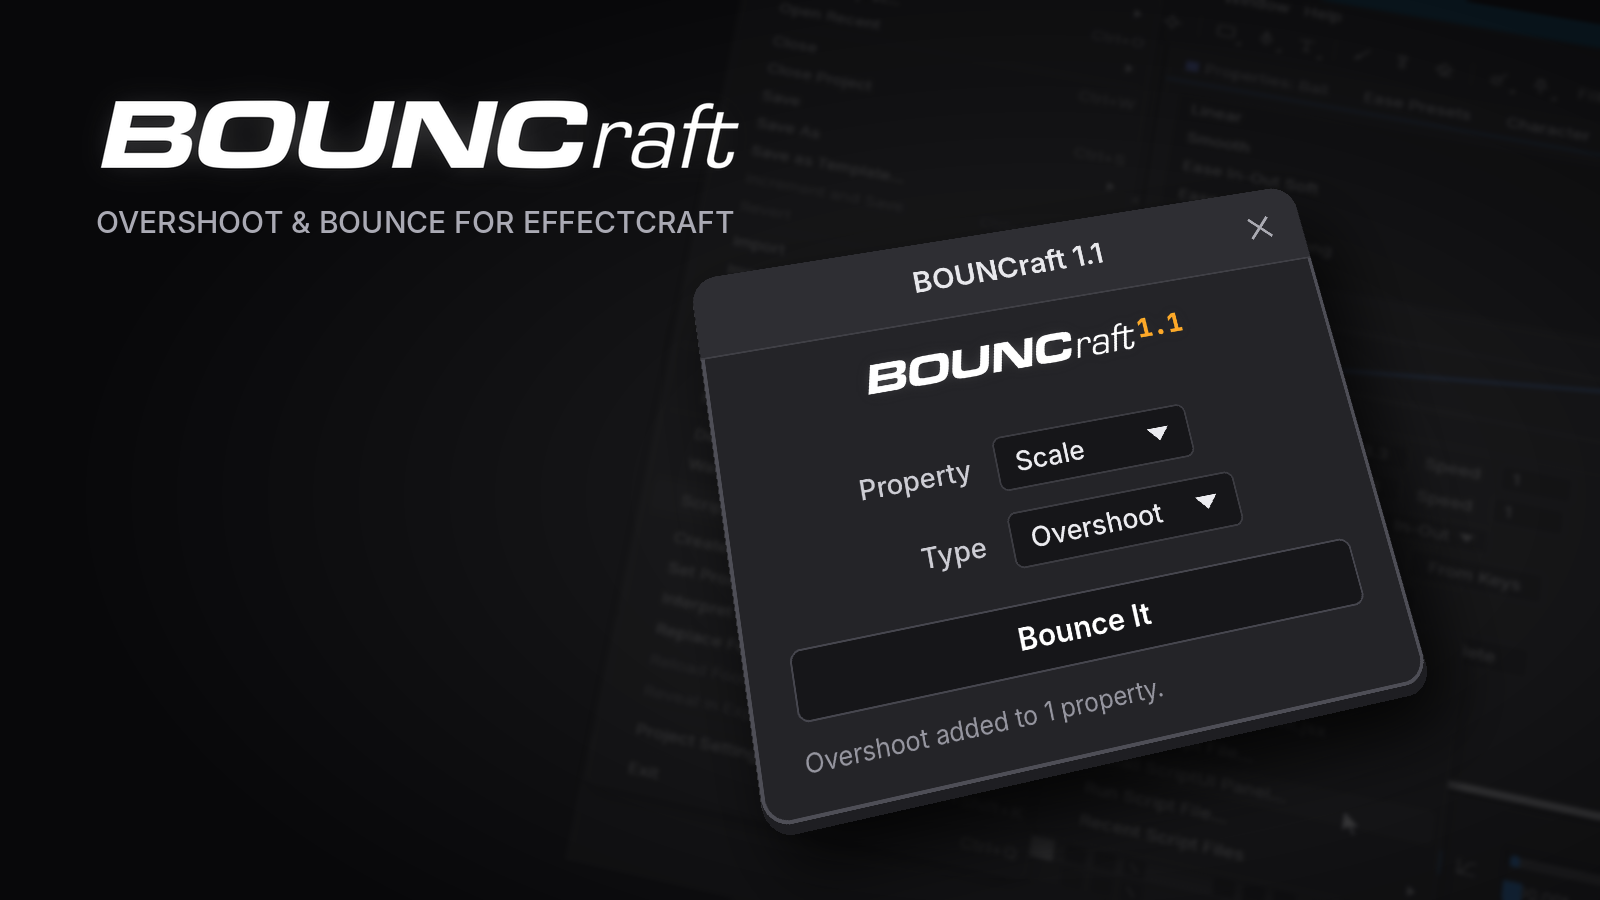
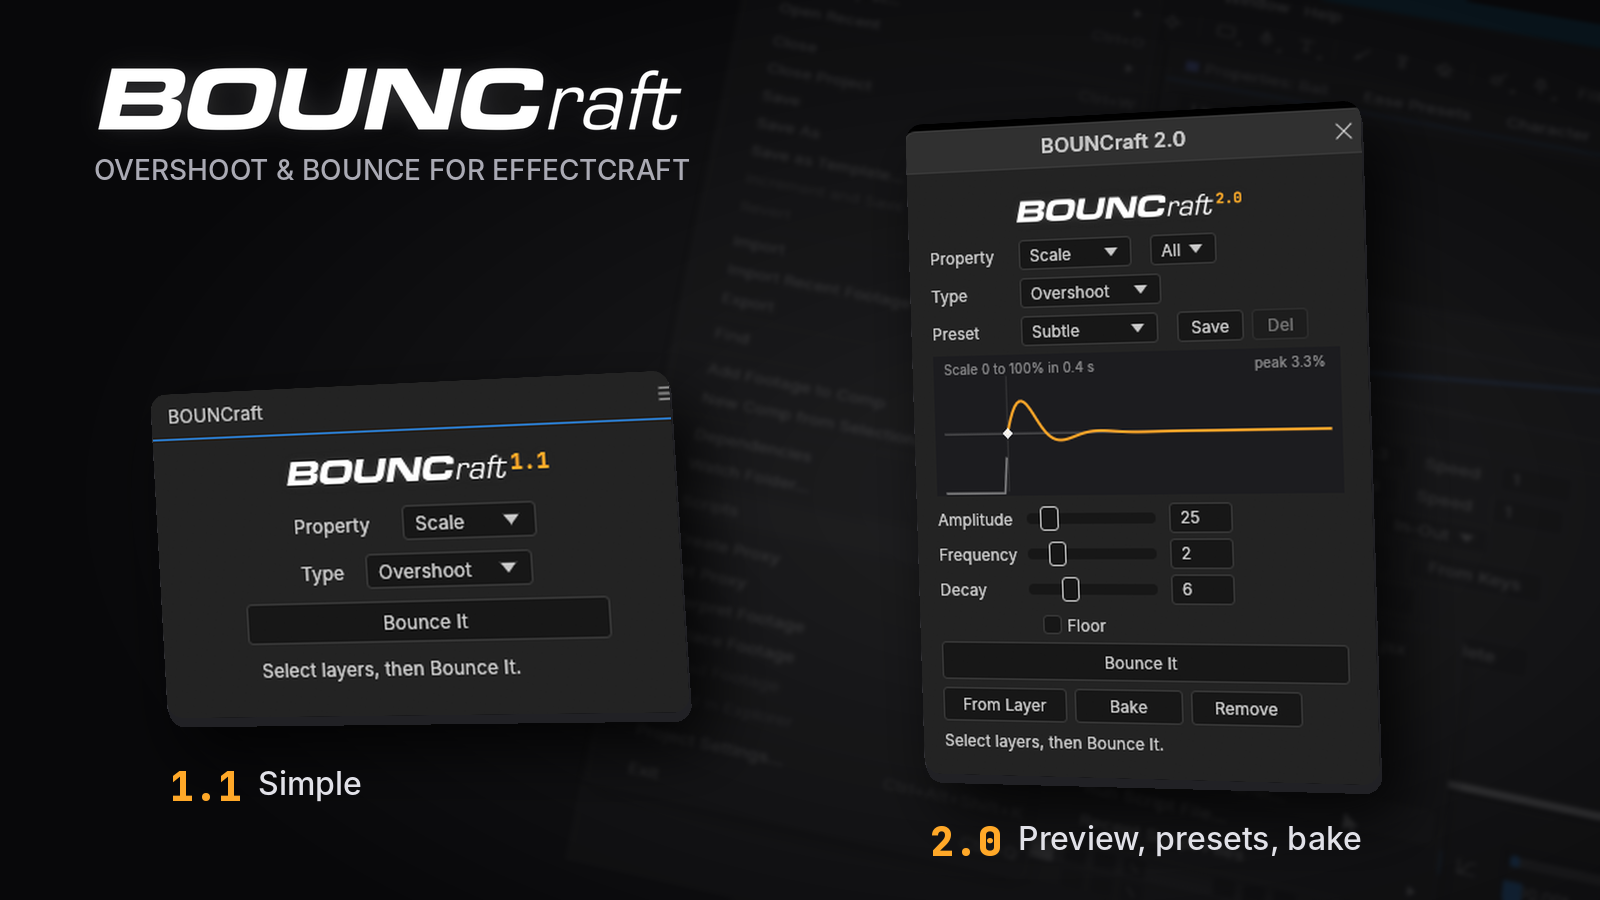
README: separate BOUNCraft 1.1 and 2 sections, hero with both panels
Claude-Session: https://claude.ai/code/session_01J9a4gAAxFGQVCisUeyi2xy

diff --git a/README.md b/README.md
@@ -1,4 +1,4 @@
-<p align="center"><img src="images/v2/hero.png" alt="BOUNCraft 2.0 — overshoot and bounce for EffectCraft"></p>
+<p align="center"><img src="images/hero.png" alt="BOUNCraft 1.1 and 2.0 — overshoot and bounce for EffectCraft"></p>
 
 # BOUNCraft
 
@@ -9,6 +9,20 @@ selected, including the Transform effect's), choose **Overshoot** or **Bounce Ba
 **Bounce It**. BOUNCraft adds the expression and the controls to tweak it.
 
 *[Português abaixo](#português)*
+
+## Which version?
+
+Two versions, both available: pick the one you like.
+
+| | [BOUNCraft 1.1](#bouncraft-11) | [BOUNCraft 2](#bouncraft-2) |
+|---|---|---|
+| For | quick and simple | more control |
+| Panel | Property, Type, **Bounce It** | the same, plus axis, presets, values, curve preview, **Bake**, **Remove**, **From Layer** |
+| Controls on the layer | one Slider / Checkbox Control per value | the same, or one effect with the optional plug-in |
+| Download | [1.1 release](../../releases/tag/v1.1): `BOUNCraft.jsx` | [2.0 release](../../releases/tag/v2.0): `BOUNCraft.jsx`, or `BOUNCraft-2.0-Plugin.zip` with the plug-in |
+
+Both install as **Window ▸ BOUNCraft.jsx**, so installing one replaces the other. Layers you already
+bounced keep working whichever one is installed (layers made with the plug-in need the plug-in).
 
 ## BOUNCraft 2
 
@@ -41,9 +55,9 @@ What's new in 2.0:
 
 Layers made with 1.x keep working, and Bake and Remove work on them too.
 
-## Install
+### Install
 
-Download from the [latest release](../../releases/latest). There are two versions; pick one:
+Download from the [2.0 release](../../releases/tag/v2.0). It comes in two forms; pick one:
 
 | | Script | Script + plug-in |
 |---|---|---|
@@ -51,10 +65,7 @@ Download from the [latest release](../../releases/latest). There are two version
 | Controls on the layer | one Slider / Checkbox Control per value | one effect, **BOUNCraft Overshoot** or **BOUNCraft Bounce Back**, with every value inside |
 | Opening your project on another computer | works in any EffectCraft | that computer needs the plug-in too |
 
-Prefer something simpler? [BOUNCraft 1.1](../../releases/tag/v1.1) is still there: the same
-Overshoot and Bounce Back, without the preview, presets, axis, Bake and Remove.
-
-### Script
+#### Script
 
 1. In EffectCraft: **File ▸ Scripts ▸ Install ScriptUI Panel…** and pick `BOUNCraft.jsx` (it
    replaces an older BOUNCraft).
@@ -70,7 +81,7 @@ Overshoot and Bounce Back, without the preview, presets, axis, Bake and Remove.
 
 To try it without installing: **File ▸ Scripts ▸ Run Script File…** opens it as a floating window.
 
-### Script + plug-in
+#### Script + plug-in
 
 1. Unzip `BOUNCraft-2.0-Plugin.zip`.
 2. In EffectCraft: **Effect ▸ Install Effect Plug-in Bundle (Folder)…** and pick the unzipped
@@ -88,7 +99,7 @@ The effect is switched off (its **fx** switch) on purpose: it only holds the val
 expression reads them anyway, and switched off it adds nothing to render times. Use the **On**
 checkbox inside it to turn the bounce off.
 
-## Use
+### Use
 
 1. Animate the property with at least two keyframes (for example Scale from 0 to 100).
 2. Select the layer (or, for **Selected**, the property itself in the timeline).
@@ -98,7 +109,7 @@ The motion starts at the last keyframe and keeps the speed the property had when
 
 <img src="images/v2/overview.png" alt="BOUNCraft in EffectCraft: the panel docked and floating, the effect in Effect Controls" width="800">
 
-### Overshoot (swings like a pendulum)
+#### Overshoot (swings like a pendulum)
 
 | Value | Default | What it does |
 |---|---|---|
@@ -108,7 +119,7 @@ The motion starts at the last keyframe and keeps the speed the property had when
 | Floor | off | Swings only to one side, as if it hits a floor. |
 | On | on | Turns the bounce off without removing it. |
 
-### Bounce Back (bounces like a ball on the floor)
+#### Bounce Back (bounces like a ball on the floor)
 
 | Value | Default | What it does |
 |---|---|---|
@@ -120,14 +131,14 @@ The motion starts at the last keyframe and keeps the speed the property had when
 Bounce Back grows with the size of the move: it shows well on a Position move of a few hundred
 pixels, and is subtle on Scale. The preview shows a typical move for the property you picked.
 
-### Bake
+#### Bake
 
 **Bake** writes the motion as keyframes, one per frame, and removes the expression and the
 controls. Use it to hand the project to someone without BOUNCraft, or to edit the keyframes by hand.
 
 <img src="images/v2/bake.png" alt="A Position baked into keyframes" width="560">
 
-### Good to know
+#### Good to know
 
 - Applying to more properties of the same layer shares one set of controls.
 - Switching a property from Overshoot to Bounce Back (or back) removes the old controls once
@@ -135,6 +146,72 @@ controls. Use it to hand the project to someone without BOUNCraft, or to edit th
 - **Bake** and **Remove** work on the selected properties, or on every BOUNCraft property of the
   selected layers.
 - Each action is one undo step.
+- Messages show at the bottom of the panel.
+
+## BOUNCraft 1.1
+
+<p align="center"><img src="images/panel.png" alt="The BOUNCraft 1.1 panel" width="336"></p>
+
+The simple one: pick the property and the type, then **Bounce It**. The values are tweaked in
+Effect Controls.
+
+### Install
+
+1. Download `BOUNCraft.jsx` from the [1.1 release](../../releases/tag/v1.1).
+2. In EffectCraft: **File ▸ Scripts ▸ Install ScriptUI Panel…** and pick `BOUNCraft.jsx`.
+
+   <img src="images/install-menu.png" alt="File > Scripts > Install ScriptUI Panel..." width="440">
+
+   <img src="images/install-pick-file.png" alt="Picking BOUNCraft.jsx in the file dialog" width="560">
+
+3. Open it from the bottom of the **Window** menu (**Window ▸ BOUNCraft.jsx**). It docks like any panel.
+
+   <img src="images/window-menu.png" alt="Window > BOUNCraft.jsx" width="400">
+
+To try it without installing: **File ▸ Scripts ▸ Run Script File…** opens it as a floating window.
+
+### Use
+
+1. Animate the property with at least two keyframes (for example Scale from 0 to 100).
+2. Select the layer (or, for **Selected**, the property itself in the timeline).
+3. Pick the property and the type, then **Bounce It**.
+
+<p>
+<img src="images/panel-property.png" alt="Property: Position, Scale, Rotation or Selected" width="300">
+<img src="images/panel-type.png" alt="Type: Overshoot or Bounce Back" width="300">
+</p>
+
+The motion starts at the last keyframe and keeps the speed the property had when it got there.
+
+#### Overshoot (swings like a pendulum)
+
+<img src="images/controls-overshoot.png" alt="Overshoot controls in Effect Controls" width="300">
+
+| Control | Default | What it does |
+|---|---|---|
+| Overshoot - Amplitude | 50 | How far it swings past the keyframe. |
+| Overshoot - Frequency | 2 | Swings per second. |
+| Overshoot - Decay | 4 | How fast it settles. Higher stops sooner. |
+| Overshoot - Floor | off | Swings only to one side, as if it hits a floor. |
+
+#### Bounce Back (bounces like a ball on the floor)
+
+<img src="images/controls-bounce-back.png" alt="Bounce Back controls in Effect Controls" width="300">
+
+| Control | Default | What it does |
+|---|---|---|
+| Bounce - Elasticity | 50 | How bouncy it is. |
+| Bounce - Gravity | 50 | How hard it's pulled back. Lower gives bigger, slower bounces. |
+| Bounce - Max Bounces | 10 | Stops after this many bounces. |
+
+Bounce Back is subtle with the defaults on fast moves: lower Gravity or raise Elasticity to see more.
+
+#### Good to know
+
+- Applying to more properties of the same layer shares one set of controls.
+- Switching a property from Overshoot to Bounce Back (or back) removes the old controls once
+  nothing uses them.
+- Each apply is one undo step.
 - Messages show at the bottom of the panel.
 
 ## Feedback
@@ -161,7 +238,23 @@ Selecione uma layer, escolha **Position**, **Scale** ou **Rotation** (ou **Selec
 propriedade selecionada, inclusive as do efeito Transform), escolha **Overshoot** ou **Bounce Back** e
 clique em **Bounce It**. O BOUNCraft coloca a expressão e os controles para ajustar.
 
+### Qual versão?
+
+São duas versões, as duas continuam disponíveis: escolha a que preferir.
+
+- **[BOUNCraft 1.1](#bouncraft-11-1)**, o simples: Property, Type e **Bounce It**. Baixe na
+  [release 1.1](../../releases/tag/v1.1).
+- **[BOUNCraft 2](#bouncraft-2-1)**, o mais completo: eixo, presets, valores e prévia da curva no
+  painel, **Bake**, **Remove**, **From Layer** e o plug-in de efeito opcional. Baixe na
+  [release 2.0](../../releases/tag/v2.0).
+
+As duas aparecem como **Window ▸ BOUNCraft.jsx**, então instalar uma substitui a outra. As layers que
+você já animou continuam funcionando com qualquer uma instalada (as feitas com o plug-in precisam do
+plug-in).
+
 ### BOUNCraft 2
+
+<p align="center"><img src="images/v2/panel.png" alt="O painel do BOUNCraft 2.0" width="355"></p>
 
 Novidades da 2.0:
 
@@ -184,9 +277,9 @@ Novidades da 2.0:
 
 Layers feitas com a 1.x continuam funcionando, e o Bake e o Remove funcionam nelas.
 
-### Instalar
+#### Instalar
 
-Baixe na [última versão](../../releases/latest). São duas opções, escolha uma:
+Baixe na [release 2.0](../../releases/tag/v2.0). São duas formas, escolha uma:
 
 - **Só o script** (`BOUNCraft.jsx`): **File ▸ Scripts ▸ Install ScriptUI Panel…**, escolha o
   `BOUNCraft.jsx`, reinicie o EffectCraft e abra **Window ▸ BOUNCraft.jsx**. Os controles ficam
@@ -198,15 +291,12 @@ Baixe na [última versão](../../releases/latest). São duas opções, escolha u
   Os controles ficam num efeito só. Quem abrir o seu projeto em outro computador precisa do
   plug-in também.
 
-Quer algo mais simples? O [BOUNCraft 1.1](../../releases/tag/v1.1) continua disponível: o mesmo
-Overshoot e Bounce Back, sem a prévia, os presets, o eixo, o Bake e o Remove.
-
 <img src="images/v2/effect-controls.png" alt="O efeito BOUNCraft Overshoot no Effect Controls" width="310">
 
 O efeito do plug-in fica com o **fx** desligado de propósito: ele só guarda os valores, a expressão
 lê assim mesmo, e desligado não pesa no render. Para desligar o bounce, use o **On** dentro dele.
 
-### Usar
+#### Usar
 
 1. Anime a propriedade com pelo menos dois keyframes (por exemplo Scale de 0 a 100).
 2. Selecione a layer (ou, no modo **Selected**, a propriedade na timeline).
@@ -228,6 +318,57 @@ sutil no Scale.
 - Várias propriedades da mesma layer usam os mesmos controles.
 - Trocar de Overshoot para Bounce Back remove os controles antigos quando nada mais usa eles.
 - Cada ação é um passo de desfazer (Ctrl+Z).
+- As mensagens aparecem no rodapé do painel.
+
+### BOUNCraft 1.1
+
+<p align="center"><img src="images/panel.png" alt="O painel do BOUNCraft 1.1" width="336"></p>
+
+O simples: escolha a propriedade e o tipo e clique em **Bounce It**. Os valores se ajustam no
+Effect Controls.
+
+#### Instalar
+
+1. Baixe o `BOUNCraft.jsx` na [release 1.1](../../releases/tag/v1.1).
+2. No EffectCraft: **File ▸ Scripts ▸ Install ScriptUI Panel…** e escolha o `BOUNCraft.jsx`.
+
+   <img src="images/install-menu.png" alt="File > Scripts > Install ScriptUI Panel..." width="440">
+
+   <img src="images/install-pick-file.png" alt="Escolhendo o BOUNCraft.jsx" width="560">
+
+3. Abra pelo fim do menu **Window** (**Window ▸ BOUNCraft.jsx**). Ele encaixa como qualquer painel.
+
+   <img src="images/window-menu.png" alt="Window > BOUNCraft.jsx" width="400">
+
+Para testar sem instalar: **File ▸ Scripts ▸ Run Script File…** abre como janela solta.
+
+#### Usar
+
+1. Anime a propriedade com pelo menos dois keyframes (por exemplo Scale de 0 a 100).
+2. Selecione a layer (ou, no modo **Selected**, a propriedade na timeline).
+3. Escolha a propriedade e o tipo e clique em **Bounce It**.
+
+<p>
+<img src="images/panel-property.png" alt="Property" width="300">
+<img src="images/panel-type.png" alt="Type" width="300">
+</p>
+
+O movimento começa no último keyframe e continua com a velocidade que a propriedade tinha ao chegar nele.
+
+<img src="images/controls-overshoot.png" alt="Controles do Overshoot" width="300">
+<img src="images/controls-bounce-back.png" alt="Controles do Bounce Back" width="300">
+
+**Overshoot** (balança como pêndulo): Amplitude (quanto passa do keyframe), Frequency (balanços por
+segundo), Decay (quanto mais alto, mais rápido para) e Floor (balança só para um lado, como se batesse
+no chão).
+
+**Bounce Back** (quica como bola): Elasticity (quanto quica), Gravity (quanto puxa de volta; mais
+baixo dá quiques maiores) e Max Bounces (para depois desse número de quiques). Com os valores padrão o
+quique é sutil em movimentos rápidos: diminua o Gravity ou aumente o Elasticity.
+
+- Várias propriedades da mesma layer usam os mesmos controles.
+- Trocar de Overshoot para Bounce Back remove os controles antigos quando nada mais usa eles.
+- Cada aplicação é um passo de desfazer (Ctrl+Z).
 - As mensagens aparecem no rodapé do painel.
 
 ### Feedback
